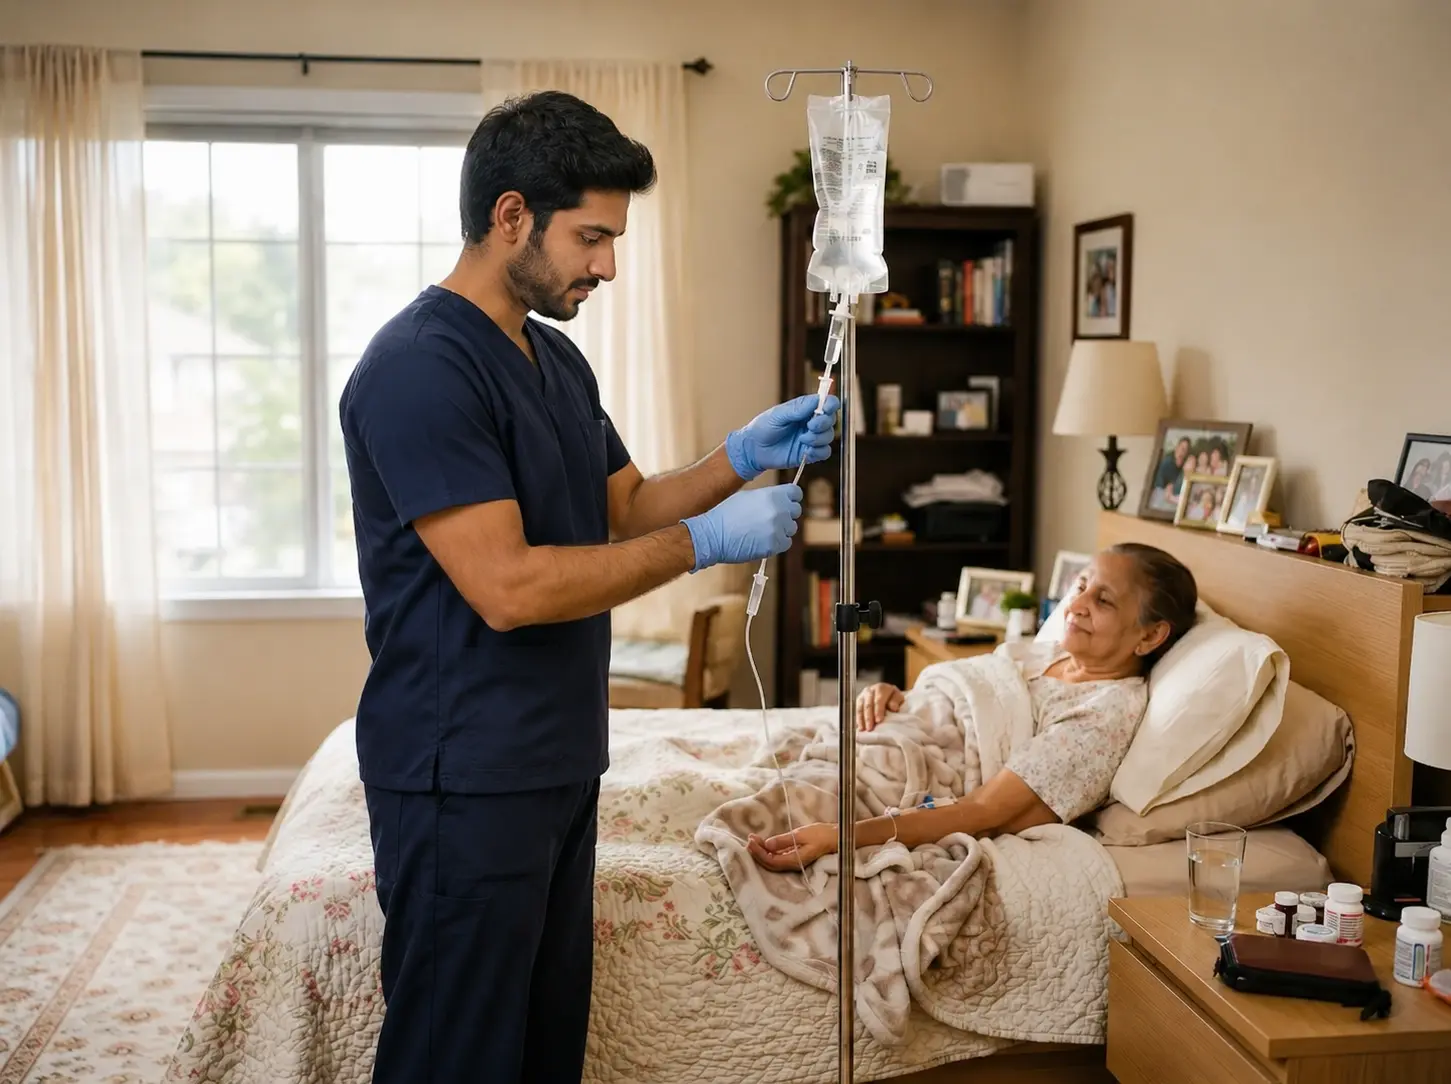
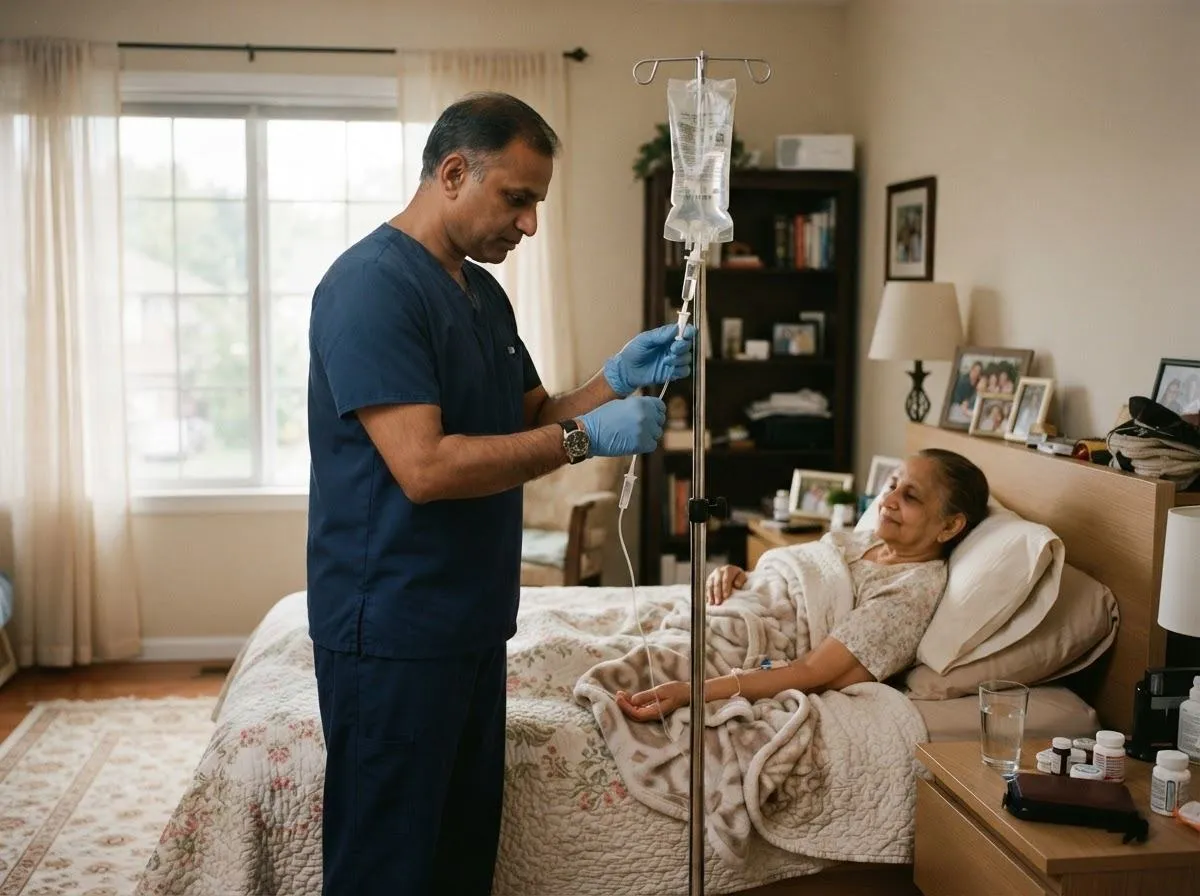
Add files via upload

diff --git a/assets/data.js b/assets/data.js
@@ -10,10 +10,10 @@ window.THC = {
 
   services: [
     { id: "iv", name: "IV infusion & drip", short: "IV drip", rx: true, featured: true,
-      desc: "Bedside cannulation, slow IV antibiotic therapy and drip monitoring at home. The nurse brings the IV stand along, so you don't need to arrange one.",
+      desc: "Bedside cannulation, slow IV antibiotic therapy and drip monitoring at home. The nurse carries a portable IV stand, and an anaphylaxis kit to treat any allergic reaction during the infusion.",
       ready: ["Doctor's prescription with fluid / medicine and rate", "IV fluids and medicines as prescribed", "A bed or chair the patient can rest on for the full drip"] },
     { id: "injection", name: "Injections (IM / IV / SC)", short: "Injection", rx: true,
-      desc: "Prescribed injection courses and insulin. Vitals are checked with every injection: BP, SpO2 and pulse, plus random blood sugar (RBS) for diabetic patients.",
+      desc: "Prescribed injection courses and insulin. Vitals are checked with every injection: BP, SpO2 and pulse, plus random blood sugar (RBS) for diabetic patients. The nurse carries an anaphylaxis kit to treat any allergic reaction during administration.",
       ready: ["Prescription showing dose and frequency", "The injection / vial (kept as per label, e.g. refrigerated)"] },
     { id: "ivf", name: "IVF injections (daily)", short: "IVF injection", rx: true,
       desc: "Daily fertility injections given on time, every day, as per your IVF specialist's schedule.",
@@ -22,7 +22,7 @@ window.THC = {
       desc: "Specialised doses given strictly under a written prescription.",
       ready: ["Haematologist's written prescription", "Factor VIII vials, stored as instructed"] },
     { id: "dressing", name: "Wound & skin graft dressing", short: "Dressing", rx: true,
-      desc: "Single visits or multi-day aseptic packages, with stitch-line inspection.",
+      desc: "Single visits or multi-day aseptic packages, with stitch-line inspection. Instruments are autoclave-sterilised at 121 °C (15 psi), with single-use sterile dressing kits.",
       ready: ["Doctor's or surgeon's written dressing advice", "Discharge summary", "Any prescribed ointment or dressing material"] },
     { id: "catheter", name: "Foley catheterisation", short: "Catheter", rx: true,
       desc: "Aseptic insertion, drainage bag care and safe removal.",
@@ -31,7 +31,7 @@ window.THC = {
       desc: "Feeding tube insertion with position verification, plus feeding and care guidance.",
       ready: ["Doctor's advice for Ryle's tube", "Feed / formula as advised"] },
     { id: "suture", name: "Suture & staple removal", short: "Suture removal", rx: true,
-      desc: "Gentle removal with single-use clinical kits.",
+      desc: "Gentle removal with autoclave-sterilised instruments (121 °C, 15 psi) and single-use sterile kits.",
       ready: ["Surgeon's written advice for suture / staple removal", "Surgery date and discharge summary"] },
     { id: "vitals", name: "Bedside vitals check", short: "Vitals check", rx: false,
       desc: "BP, pulse, SpO2, temperature and blood sugar (RBS).",

diff --git a/index.html b/index.html
@@ -164,7 +164,7 @@
         <div class="bd">
           <div class="k"><span class="eyebrow">Most requested</span><span class="rx">Prescription needed</span></div>
           <h3>IV infusion &amp; drip</h3>
-          <p>Bedside cannulation, slow IV antibiotic therapy and drip monitoring at home. The nurse brings the IV stand along.</p>
+          <p>Bedside cannulation, slow IV antibiotic therapy and drip monitoring at home. The nurse carries a portable IV stand and an anaphylaxis kit.</p>
           <div class="act"><a class="btn btn-teal btn-sm" href="book/?service=iv">Book IV drip <svg><use href="#i-arrow"/></svg></a><a class="lnk" href="#svc-iv" data-open="iv">What to keep ready</a></div>
         </div>
       </article>
@@ -281,7 +281,7 @@
       <p>Every Trinity visit follows the same four standards, whether it's a five-minute injection or a two-hour drip.</p>
     </div>
     <div class="std-grid">
-      <div class="sc rv"><span class="ci"><svg><use href="#i-kit"/></svg></span><small>01</small><h3>Class-B autoclave sterilisation</h3><p>Surgical instruments sterilised in a Class-B vertical autoclave at 121 °C (15 psi), plus single-use sterile kits.</p></div>
+      <div class="sc rv"><span class="ci"><svg><use href="#i-kit"/></svg></span><small>01</small><h3>Autoclave sterilisation</h3><p>Surgical instruments sterilised in an autoclave at 121 °C (15 psi), plus single-use sterile kits.</p></div>
       <div class="sc rv"><span class="ci"><svg><use href="#i-rx"/></svg></span><small>02</small><h3>Prescription first</h3><p>IV drips, Factor VIII, antibiotics and catheters need a written prescription.</p></div>
       <div class="sc rv"><span class="ci"><svg><use href="#i-gauge"/></svg></span><small>03</small><h3>Baseline vitals</h3><p>BP, pulse and SpO2 are checked before any treatment begins, with random blood sugar for diabetic patients.</p></div>
       <div class="sc rv"><span class="ci"><svg><use href="#i-shield"/></svg></span><small>04</small><h3>Safe waste disposal</h3><p>Sharps and clinical waste leave with the nurse. Nothing goes in your dustbin.</p></div>
